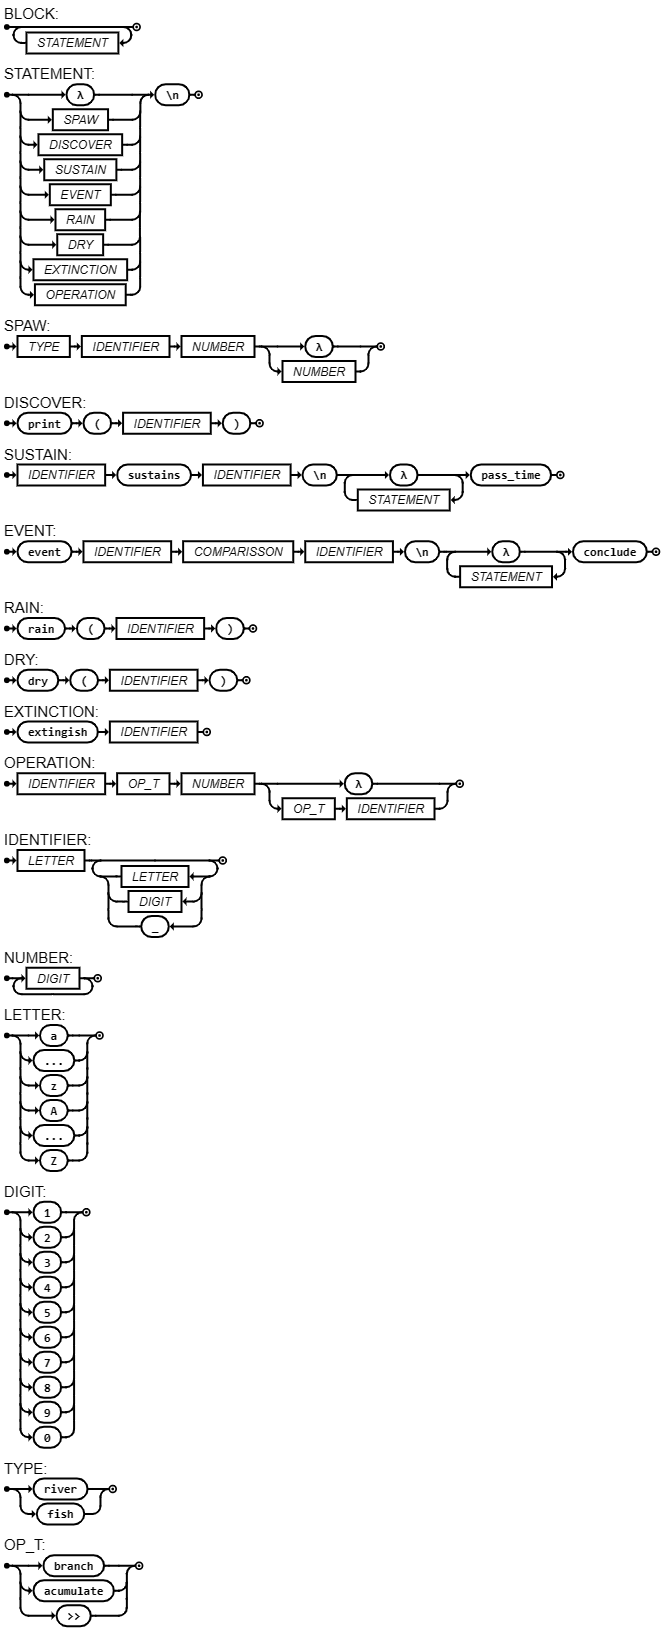
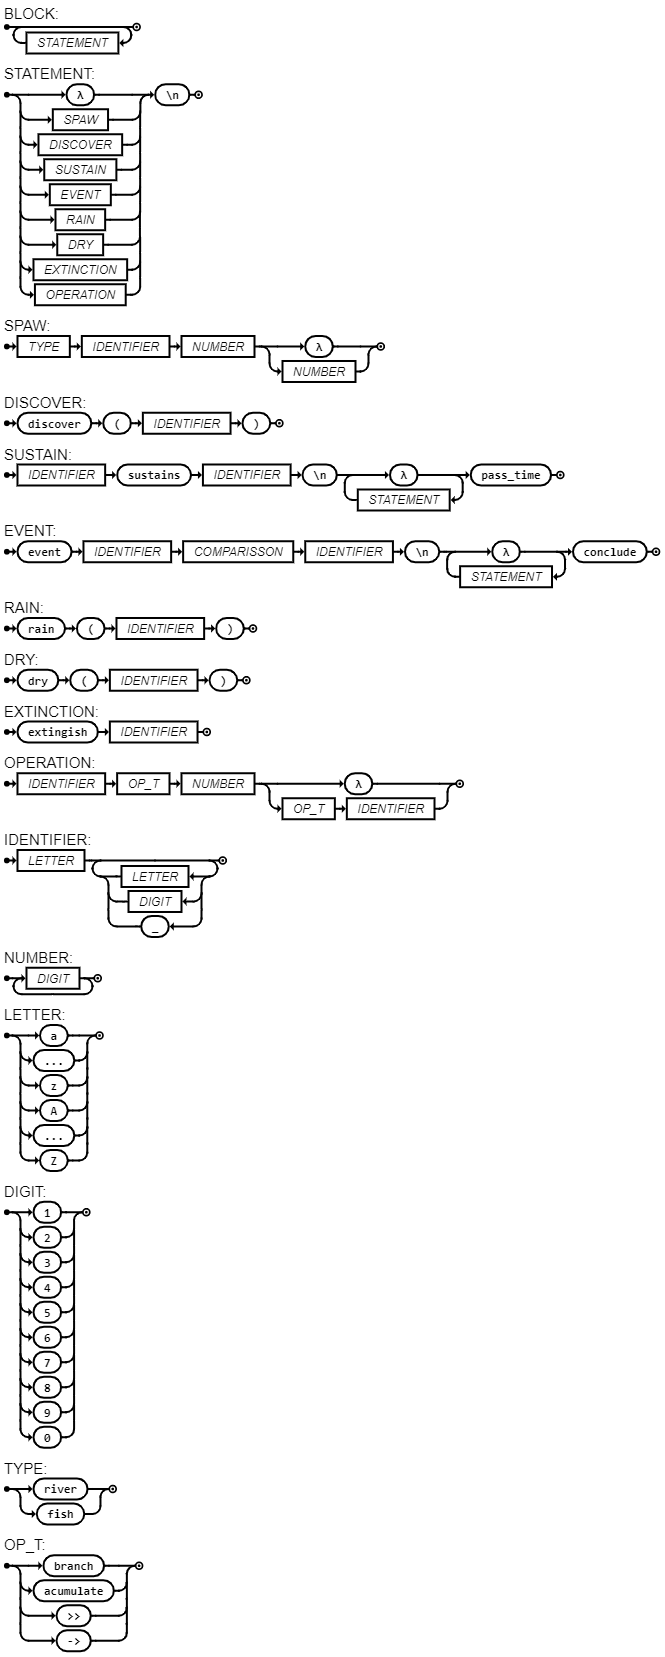
Correções na EBNF.

Changed region(s): [[0.0, 0.0, 0.9925, 0.5938], [0.0, 0.5625, 0.2105, 1.0]]

diff --git a/README.md b/README.md
@@ -7,7 +7,7 @@
 BLOCK = { STATEMENT };
 STATEMENT = ( "λ" | SPAW | DISCOVER | SUSTAIN | EVENT | RAIN | DRY | EXTINCTION | OPERATION ), "\n" ;
 SPAW = TYPE, IDENTIFIER, NUMBER, ( "λ" | NUMBER ) ;
-DISCOVER = "print", "(", IDENTIFIER, ")" ;
+DISCOVER = "discover", "(", IDENTIFIER, ")" ;
 SUSTAIN = IDENTIFIER, "sustains", IDENTIFIER, "\n", "λ", { ( STATEMENT ), "λ" }, "pass_time" ;
 EVENT = "event", IDENTIFIER, COMPARISSON, IDENTIFIER, "\n", "λ", { ( STATEMENT ), "λ" }, "conclude" ;
 RAIN = "rain","(", IDENTIFIER, ")" ;
@@ -19,7 +19,7 @@ NUMBER = DIGIT, { DIGIT } ;
 LETTER = ( "a" | "..." | "z" | "A" | "..." | "Z" ) ;
 DIGIT = ( "1" | "2" | "3" | "4" | "5" | "6" | "7" | "8" | "9" | "0" );
 TYPE = ( "river" | "fish" ) ;
-OP_T = ( "branch" | "acumulate" | ">>" ) ;
+OP_T = ( "branch" | "acumulate" | ">>" | "->" ) ;
 
 ```
 
@@ -30,6 +30,8 @@ OP_T = ( "branch" | "acumulate" | ">>" ) ;
 ## Introdução
 
 A linguagem Aqua desenvolvida para a matéria Lógica Computacional, é uma linguagem que simula o mundo natural ao escrever o código, para programar nessa linguagem é necessário criar connjuntos de rios e peixes e definir as relações entre eles. A linguagem é composta por 2 tipos de declarações, a declaração de rios, a declaração de peixes.
+
+Observação: A linguagem não possui necessidade de identação, porém é recomendado para melhor visualização do código.
 
 Um exemplo de código em Aqua é:
 
